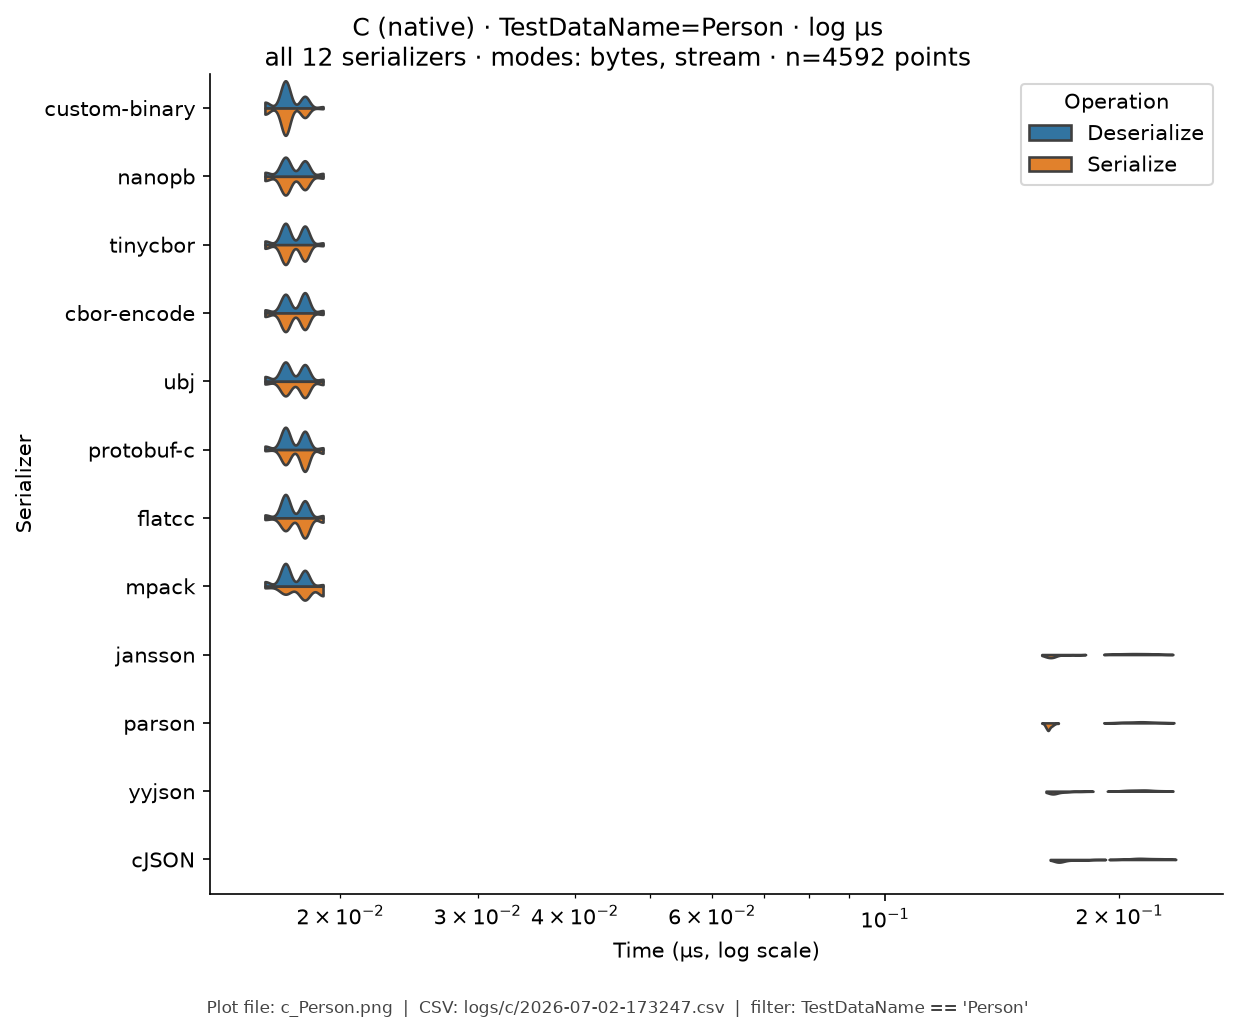
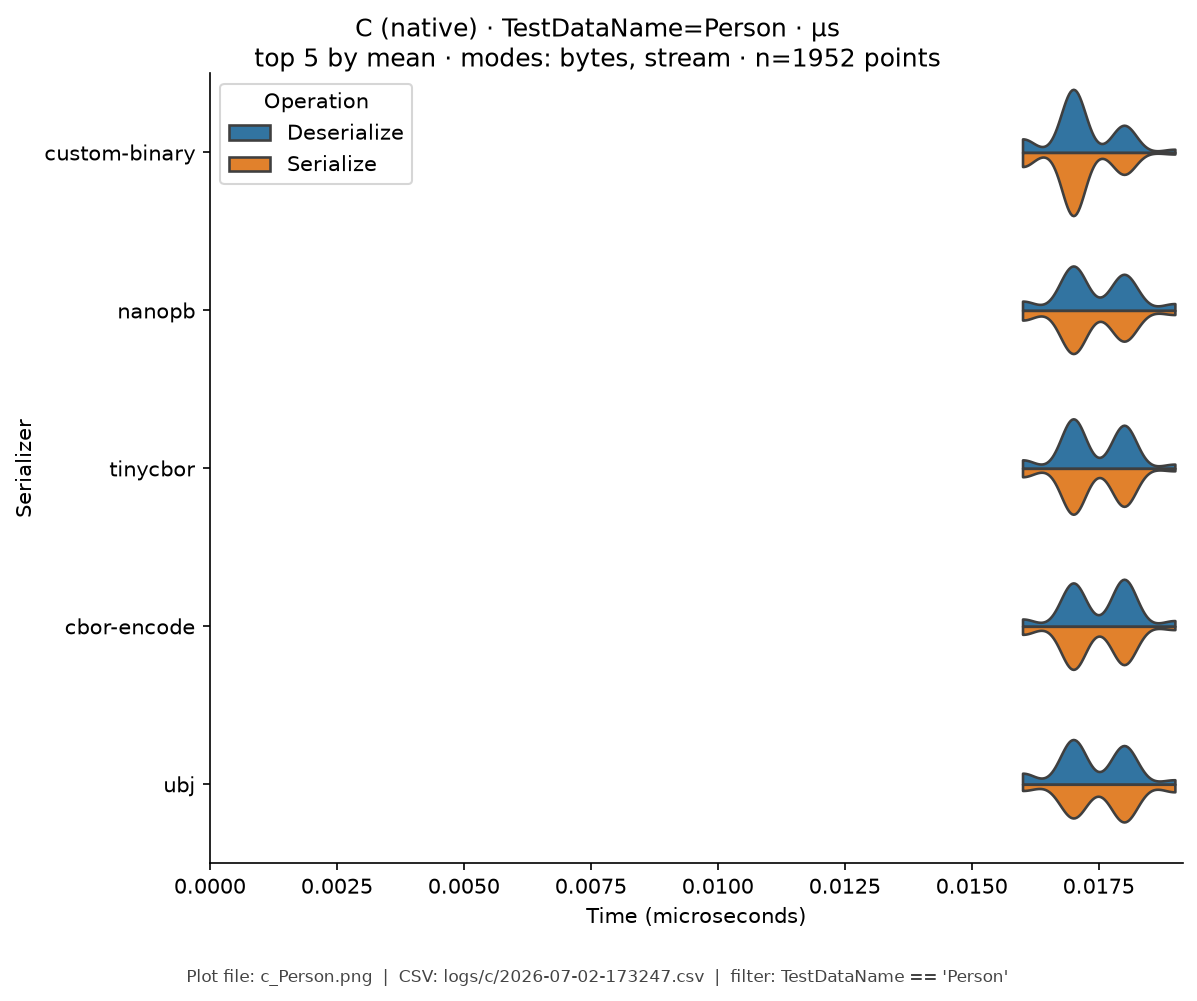
Limit violin plots to top-5 serializers by mean time.
Always filter each fixture plot to the five fastest serializers (was only
applied when a language had more than 12). Regenerated full-run plot
snapshots so all languages use the same top-5 presentation.

diff --git a/analysis/src/benchmark_analysis/reports.py b/analysis/src/benchmark_analysis/reports.py
@@ -119,12 +119,14 @@ def _generate_violin_plot(
     if subset.empty:
         return None
 
-    # Filter to top N serializers by mean time if requested
-    if top_n:
-        # Calculate mean time per serializer (using Time_us)
-        mean_times = subset.groupby('SerializerName')['Time_us'].mean().sort_values()
-        top_serializers = mean_times.head(top_n).index.tolist()
-        subset = subset[subset['SerializerName'].isin(top_serializers)].copy()
+    # Filter to top N serializers by mean time (default: top 5 fastest).
+    if top_n is None:
+        top_n = 5
+    if top_n > 0:
+        mean_times = subset.groupby("SerializerName")["Time_us"].mean().sort_values()
+        # If fewer than top_n exist, head() returns all of them.
+        top_serializers = mean_times.head(int(top_n)).index.tolist()
+        subset = subset[subset["SerializerName"].isin(top_serializers)].copy()
 
     # Per-serializer high-end winsorize (p99): one stalled rep must not stretch the KDE.
     def _clip_hi(s: pd.Series) -> pd.Series:
@@ -743,8 +745,8 @@ def generate_violin_plots(
             if recs:
                 by_lang[str(k).lower()] = list(recs)
 
-    # Stable ordering for docs / reports
-    order = ["csharp", "python", "rust", "c", "javascript"]
+    # Stable ordering for docs / reports (prefer master config order).
+    order = _lang_order_list()
     lang_ids = [lid for lid in order if lid in by_lang] + sorted(
         lid for lid in by_lang if lid not in order
     )
@@ -753,15 +755,17 @@ def generate_violin_plots(
     # lang_id -> {fixture -> plot filename} plus source path for results.md
     plot_meta: Dict[str, Dict] = {}
 
+    # Always show the five fastest serializers per fixture (by mean total time).
+    # Keeps crowded languages readable and makes plots comparable across langs.
+    TOP_N_SERIALIZERS = 5
+
     for lang_id in lang_ids:
         records = by_lang[lang_id]
         display = _lang_display_map().get(lang_id, lang_id)
         melted = _records_to_melted_df(records, display)
         if melted.empty:
             continue
-        n_sers = int(melted["SerializerName"].nunique())
-        # Cap series on crowded languages (historical C# behaviour: top 5)
-        top_n = 5 if n_sers > 12 else None
+        top_n = TOP_N_SERIALIZERS
         file_key = _lang_file_key(lang_id, display)
         src = lang_sources.get(lang_id) or lang_sources.get(file_key)
         if src:

diff --git a/docs/javascript/results.md b/docs/javascript/results.md
@@ -1,6 +1,6 @@
 # JavaScript (Node.js) — Benchmark Results
 
-**Generated:** 2026-07-02T17:36:31.686613
+**Generated:** 2026-07-02T17:42:31.506493
 
 Published **local snapshot** (not regenerated by GitHub Actions). Numbers may differ if you re-run benchmarks on another machine.
 

diff --git a/docs/c/results.md b/docs/c/results.md
@@ -1,6 +1,6 @@
 # C (native) — Benchmark Results
 
-**Generated:** 2026-07-02T17:36:31.684933
+**Generated:** 2026-07-02T17:42:31.504904
 
 Published **local snapshot** (not regenerated by GitHub Actions). Numbers may differ if you re-run benchmarks on another machine.
 

diff --git a/docs/c-sharp/results.md b/docs/c-sharp/results.md
@@ -1,6 +1,6 @@
 # C# (.NET) — Benchmark Results
 
-**Generated:** 2026-07-02T17:36:31.676224
+**Generated:** 2026-07-02T17:42:31.496023
 
 Published **local snapshot** (not regenerated by GitHub Actions). Numbers may differ if you re-run benchmarks on another machine.
 

diff --git a/docs/python/results.md b/docs/python/results.md
@@ -1,6 +1,6 @@
 # Python — Benchmark Results
 
-**Generated:** 2026-07-02T17:36:31.680669
+**Generated:** 2026-07-02T17:42:31.500438
 
 Published **local snapshot** (not regenerated by GitHub Actions). Numbers may differ if you re-run benchmarks on another machine.
 

diff --git a/docs/rust/results.md b/docs/rust/results.md
@@ -1,6 +1,6 @@
 # Rust — Benchmark Results
 
-**Generated:** 2026-07-02T17:36:31.682813
+**Generated:** 2026-07-02T17:42:31.502748
 
 Published **local snapshot** (not regenerated by GitHub Actions). Numbers may differ if you re-run benchmarks on another machine.
 

diff --git a/docs/go/results.md b/docs/go/results.md
@@ -1,6 +1,6 @@
 # Go — Benchmark Results
 
-**Generated:** 2026-07-02T17:36:31.688226
+**Generated:** 2026-07-02T17:42:31.508053
 
 Published **local snapshot** (not regenerated by GitHub Actions). Numbers may differ if you re-run benchmarks on another machine.
 
